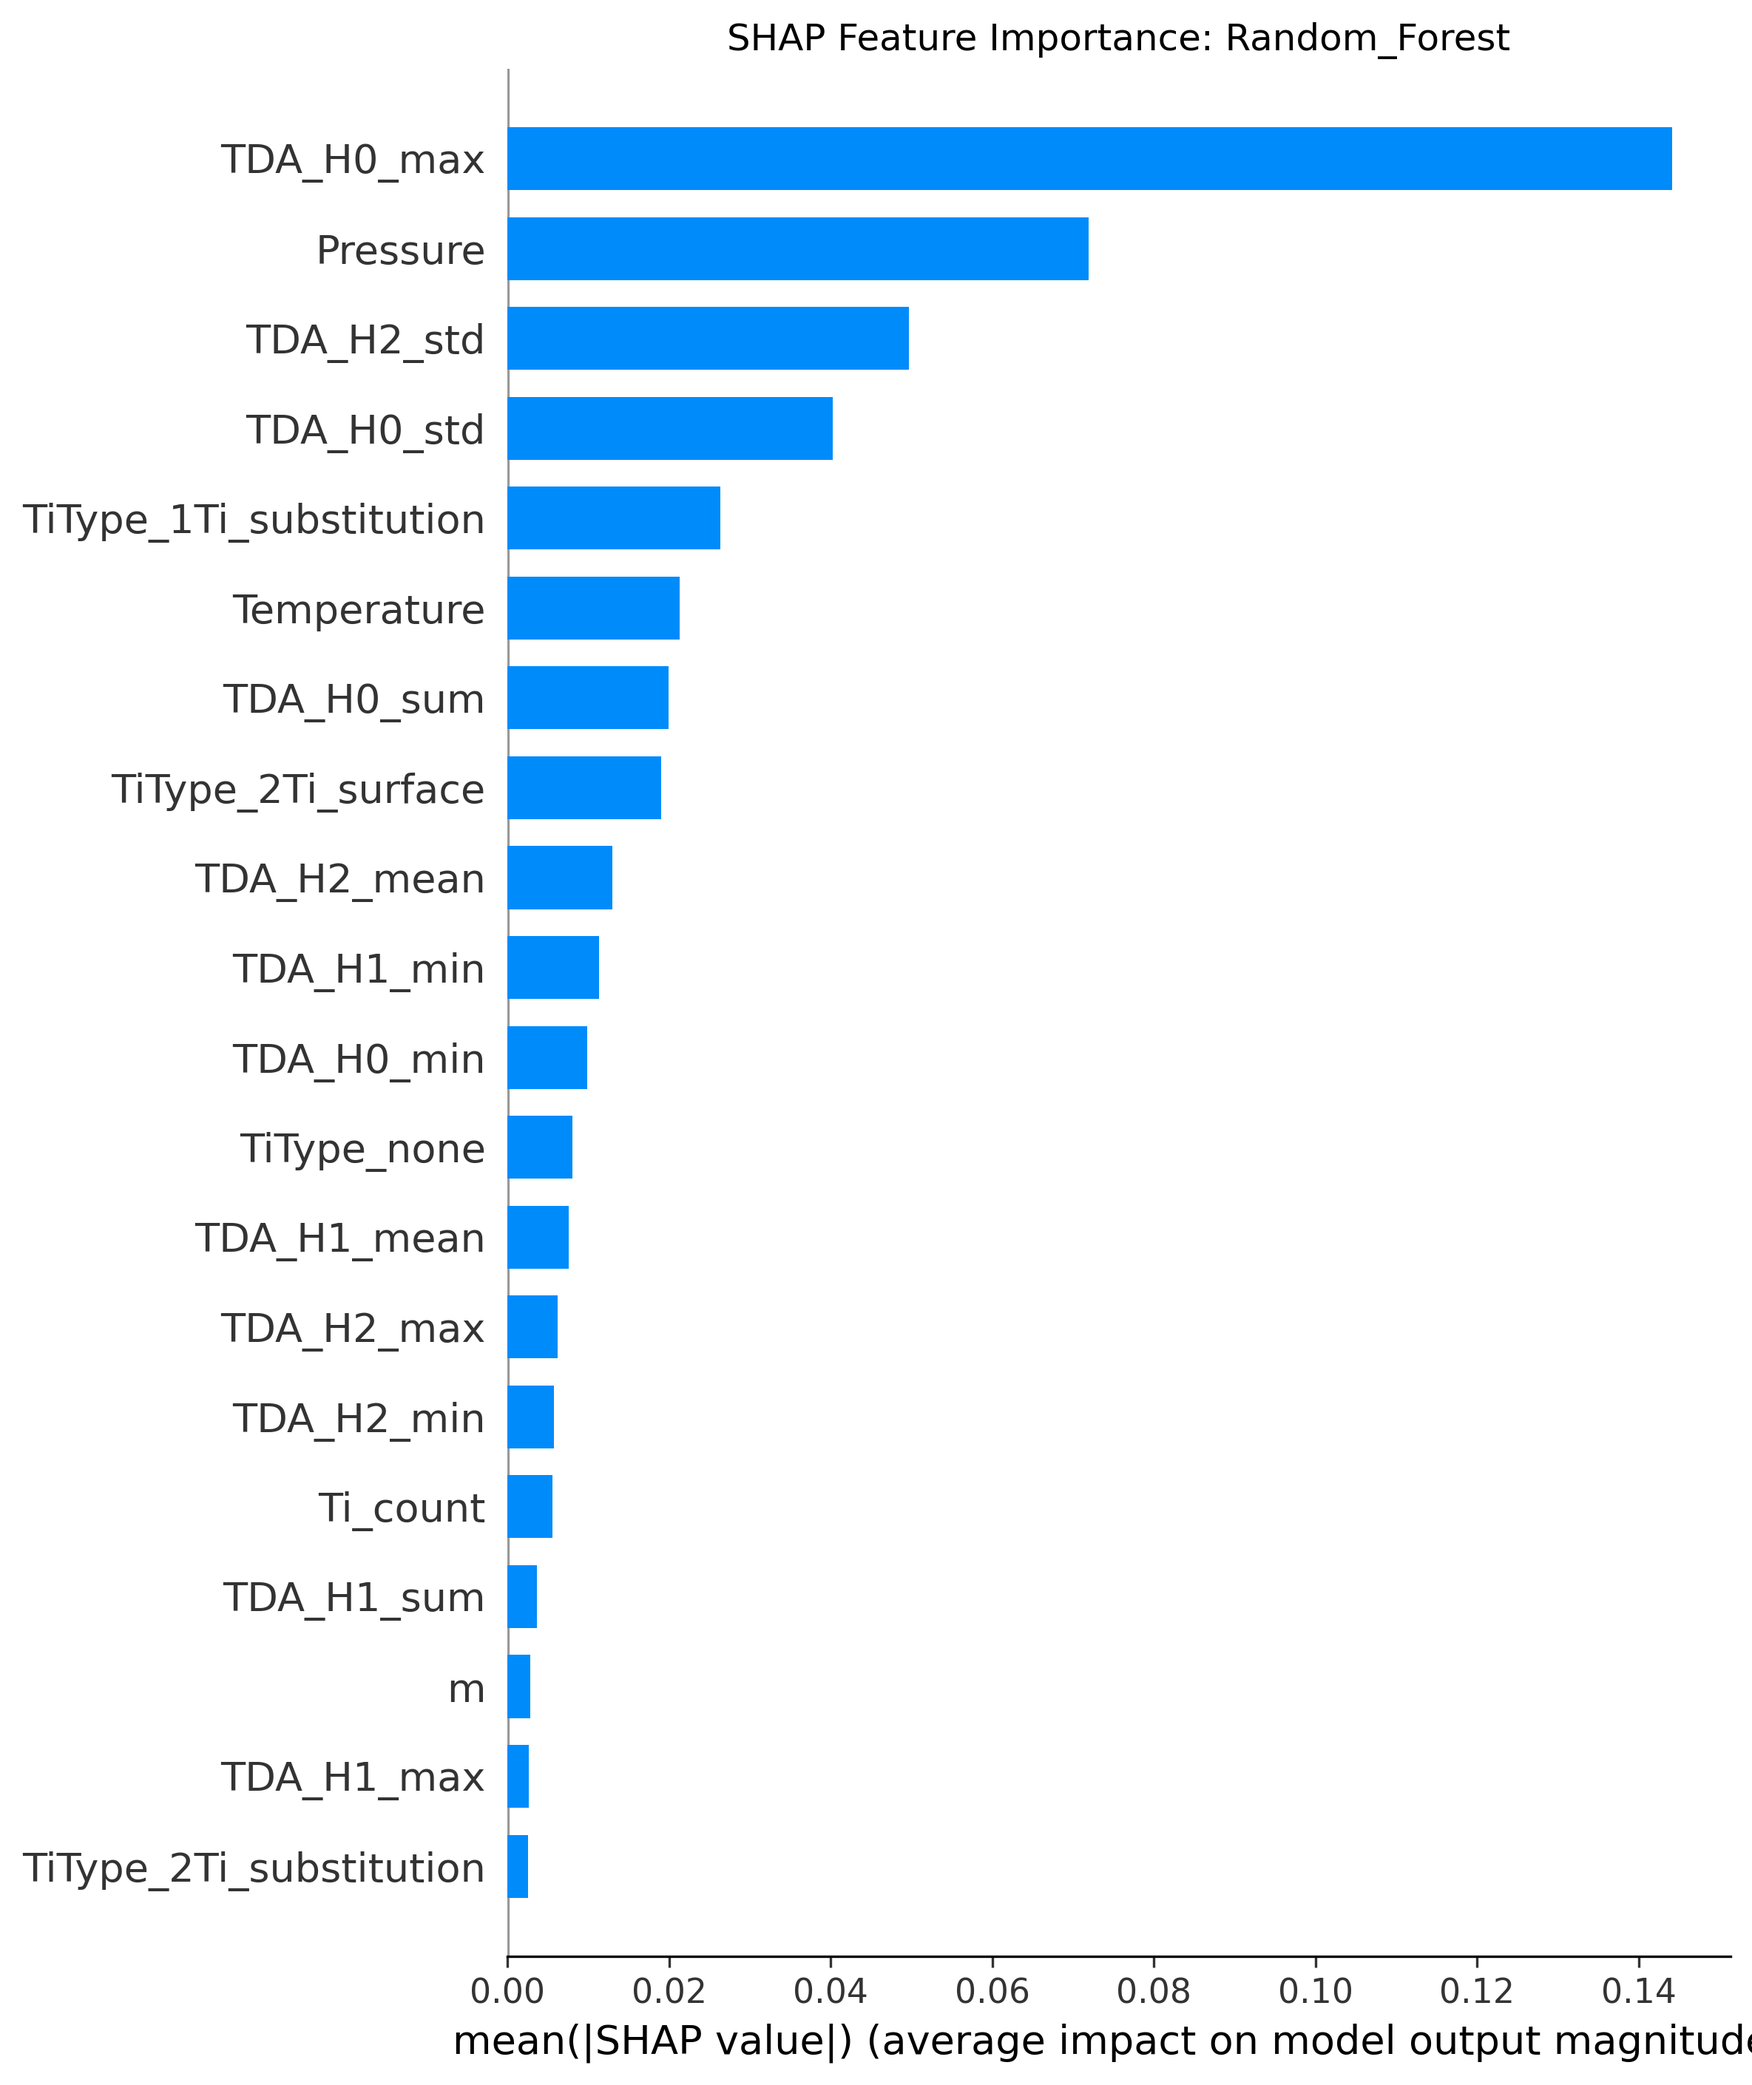
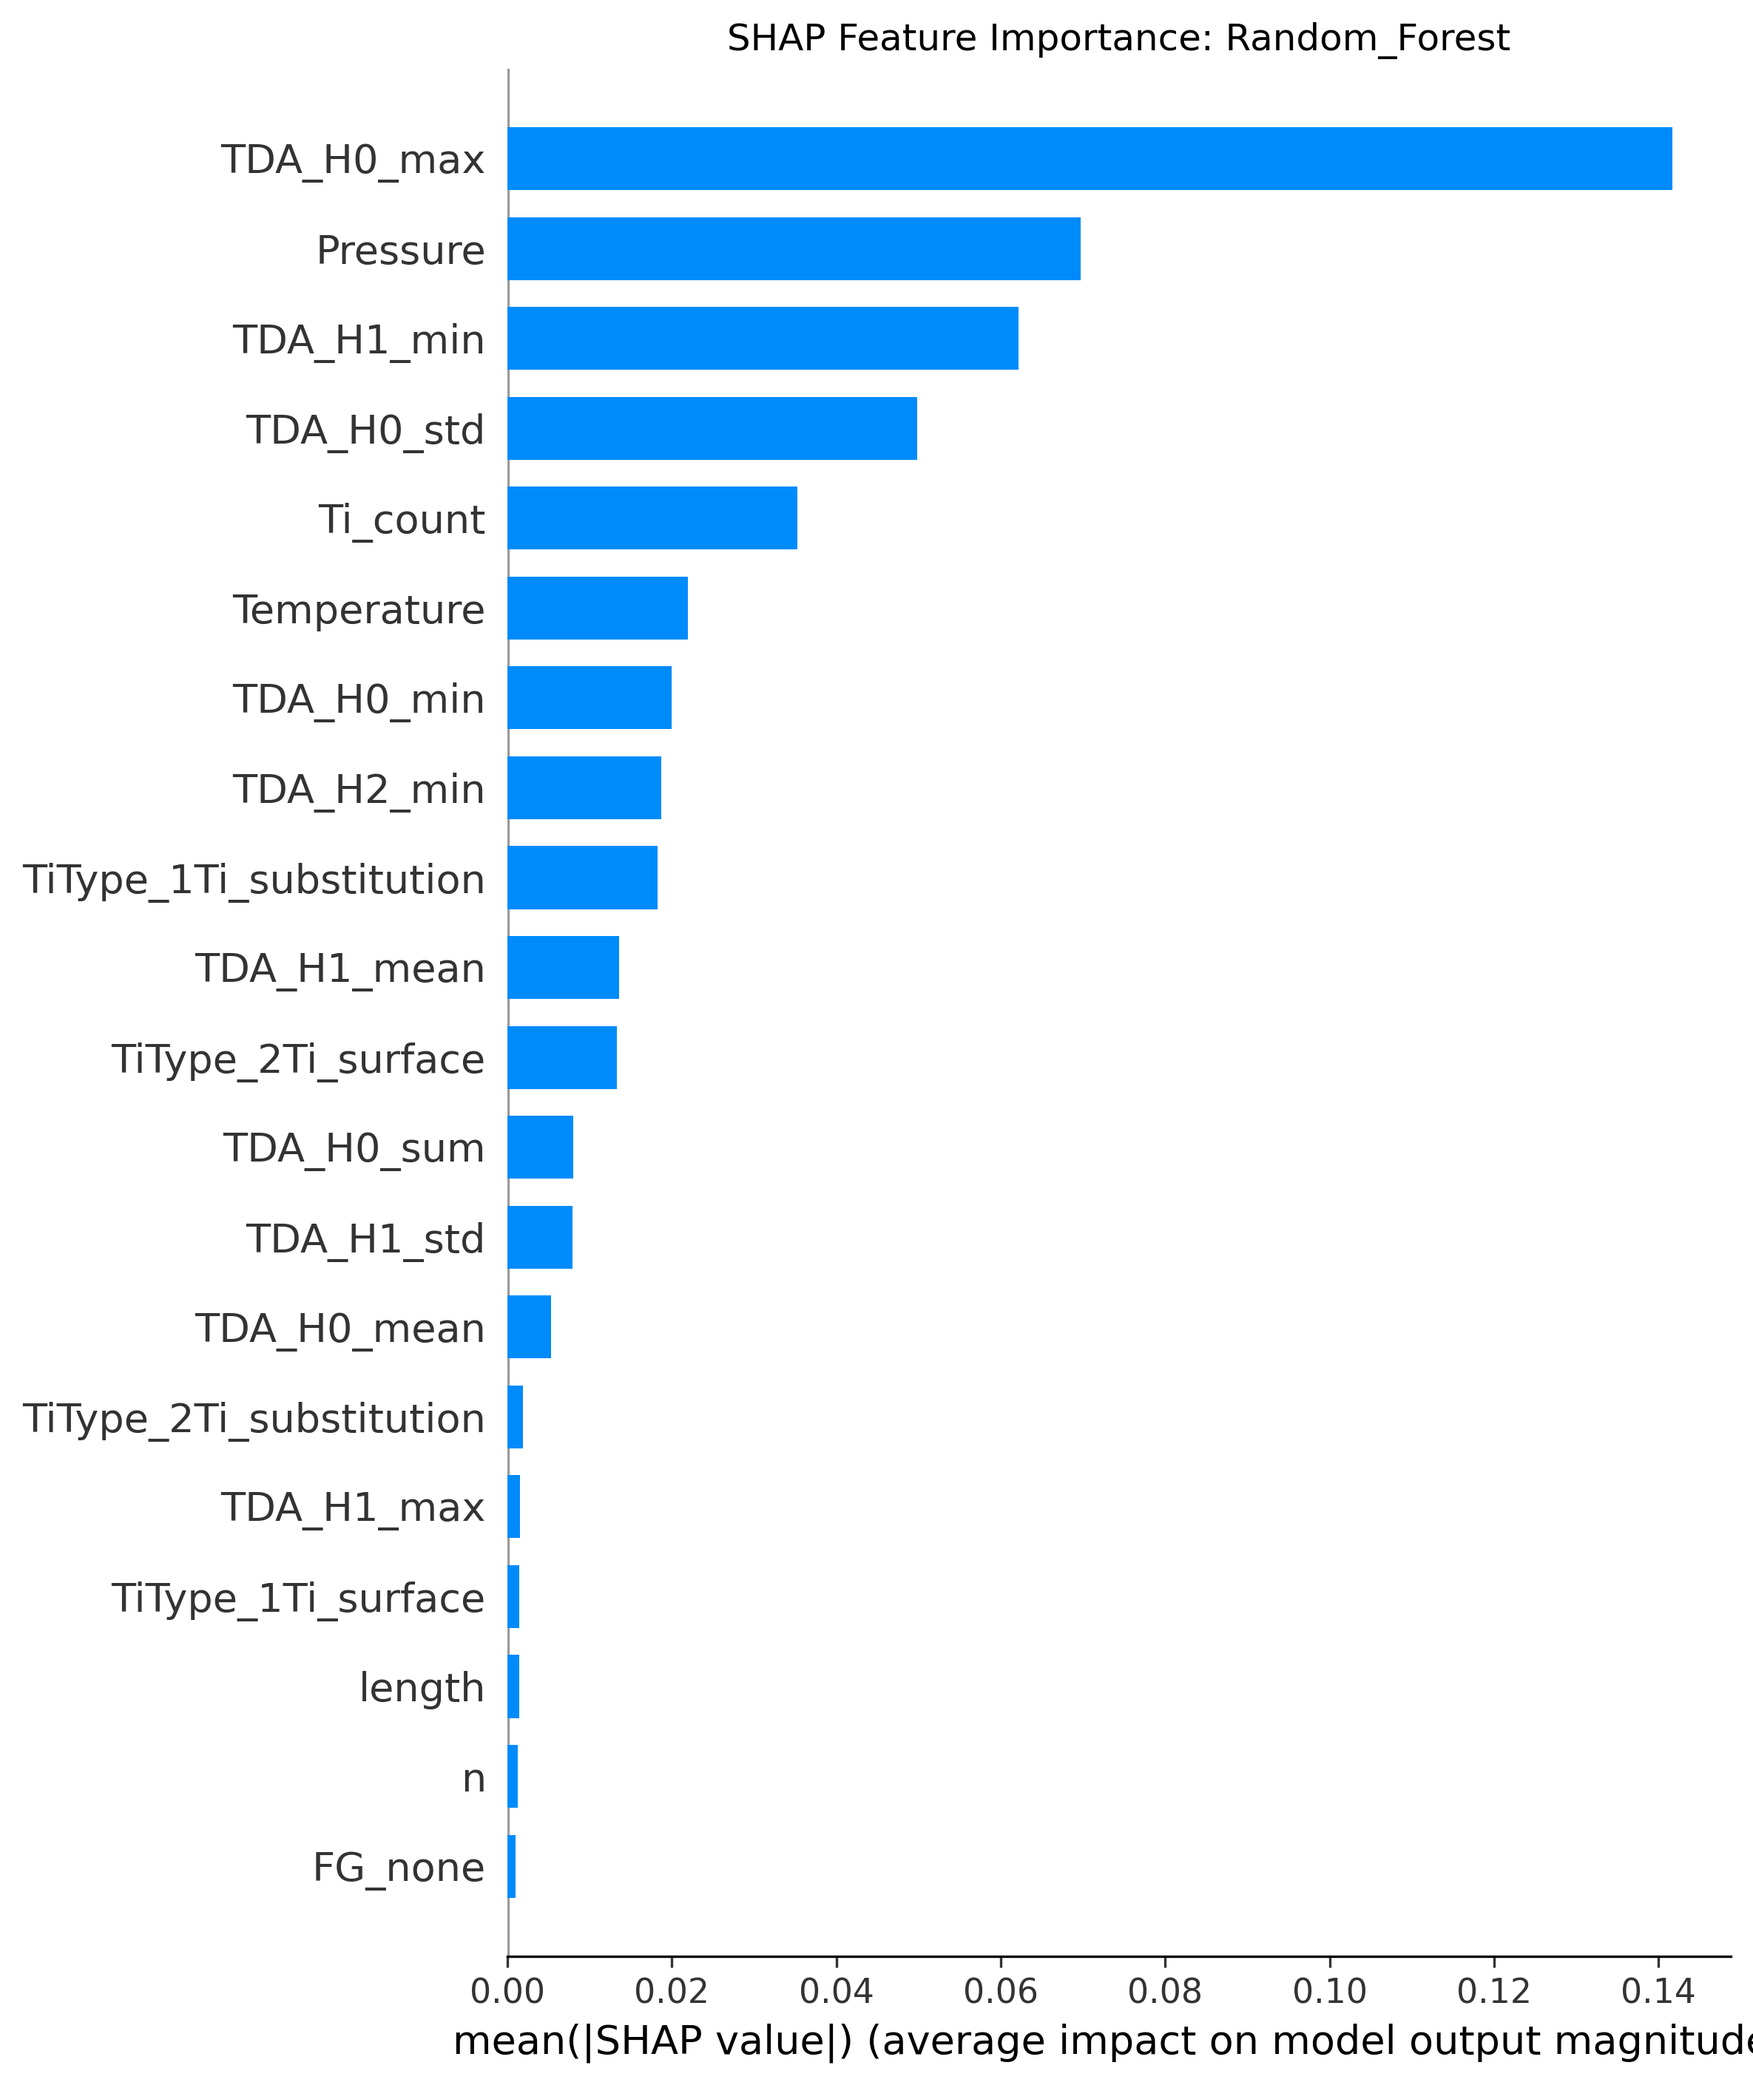
0316 update

diff --git a/MLs.py b/MLs.py
@@ -18,7 +18,7 @@ def run_shap_analysis(model, X_test_scaled, feature_names, model_name="Model"):
     X_df = pd.DataFrame(X_test_scaled, columns=feature_names)
     print(f"Calculating {model_name} for SHAP values")
     
-    if "RandomForest" in str(type(model)):
+    if "RandomForest" in str(type(model)) or "XGBRegressor" in str(type(model)):
         explainer = shap.TreeExplainer(model)
         shap_values = explainer.shap_values(X_df)
     else:
@@ -41,8 +41,6 @@ def run_shap_analysis(model, X_test_scaled, feature_names, model_name="Model"):
     return shap_values
 
 # Pearson correlation defination
-
-
 def plot_correlation_matrix(df, model_name="Dataset"):
     corr_matrix = df.corr() 
     plt.figure(figsize=(15, 15), dpi=300)
@@ -62,6 +60,16 @@ def plot_correlation_matrix(df, model_name="Dataset"):
     plt.savefig(f'{model_name}_correlation_matrix.png', bbox_inches='tight')
     print(f"Correlation matrix saved as {model_name}_correlation_matrix.png")
 
+# Feature cleaning process (with Pearson threshold)
+def remove_high_correlation_features(X, threshold=0.9):
+    corr_matrix = X.corr().abs()
+    upper = corr_matrix.where(np.triu(np.ones(corr_matrix.shape), k=1).astype(bool))
+    to_drop = [column for column in upper.columns if any(upper[column] > threshold)]
+    
+    print(f"There are {len(to_drop)} features (r > {threshold}):")
+    print(to_drop)
+    X_dropped = X.drop(columns=to_drop)
+    return X_dropped, to_drop
 
 csv_dir = r"D:\UCL Courses\NSCI0016 Literature Report\dataset and models\deepchem\0314analysis\dataset_full_feat.csv"
 colnames = ['FileID', 'Temperature', 'E', 'G', 'Pressure' , 'length', 'n', 'm', 'diameter', 'Ti_count', 'FG_C=O', 'FG_NH2', 'FG_SO3H', 'FG_none', 'TiType_1Ti_substitution', 'TiType_1Ti_surface', 'TiType_2Ti_substitution', 'TiType_2Ti_surface', 'TiType_none', 'TDA_H0_max', 'TDA_H0_min', 'TDA_H0_mean', 'TDA_H0_std', 'TDA_H0_sum', 'TDA_H1_max', 'TDA_H1_min', 'TDA_H1_mean', 'TDA_H1_std', 'TDA_H1_sum', 'TDA_H2_max', 'TDA_H2_min', 'TDA_H2_mean', 'TDA_H2_std', 'TDA_H2_sum', 'theta']
@@ -78,7 +86,12 @@ analysis_df = X.copy()
 analysis_df['theta'] = y 
 plot_correlation_matrix(analysis_df, model_name="Feature_Analysis")
 
-X_train, X_test, y_train, y_test = train_test_split(X, y, test_size=0.2, random_state=42, shuffle=True)
+X, dropped_cols = remove_high_correlation_features(X, threshold=0.9)
+feature_names = X.columns.tolist()
+# divide the label into bins
+y_bins = pd.cut(y, bins=5, labels=False)
+X_train, X_test, y_train, y_test = train_test_split(X, y, test_size=0.2, random_state=42, stratify=y_bins, shuffle=True)
+
 scaler_X = StandardScaler()
 X_train_scaled = scaler_X.fit_transform(X_train)
 X_test_scaled = scaler_X.transform(X_test)

diff --git a/presentation.md b/presentation.md
@@ -122,3 +122,8 @@ model = dc.models.torch_models.DMPNNModel(
 |![figure12](/TDA%20with%20G/result.png)|![figure13](/TDA%20without%20G/result.png)|
 |![figure14](/TDA%20with%20G/shap_importance_bar.png)|![figure15](/TDA%20without%20G/shap_importance_bar.png)|
 |![figure16](/TDA%20with%20G/shap_summary.png)| ![figure17](/TDA%20without%20G/shap_summary.png)|
+
+
+## Feature analysis
+### Pearson correlation plot
+![figure17](/Feature_Analysis_correlation_matrix.png)
